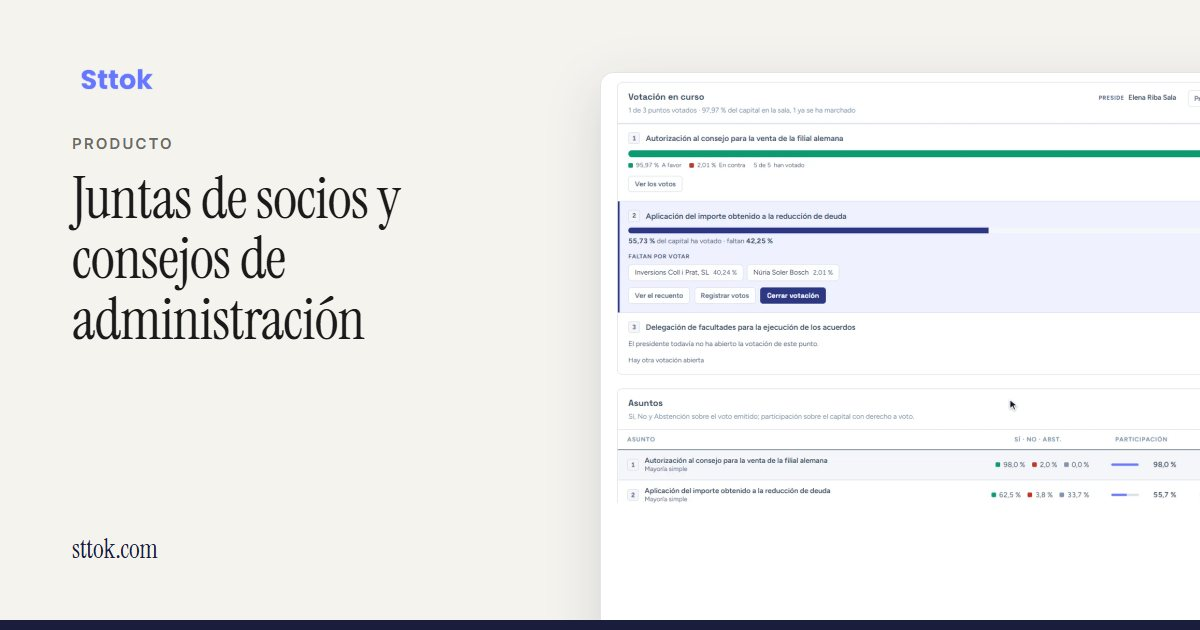
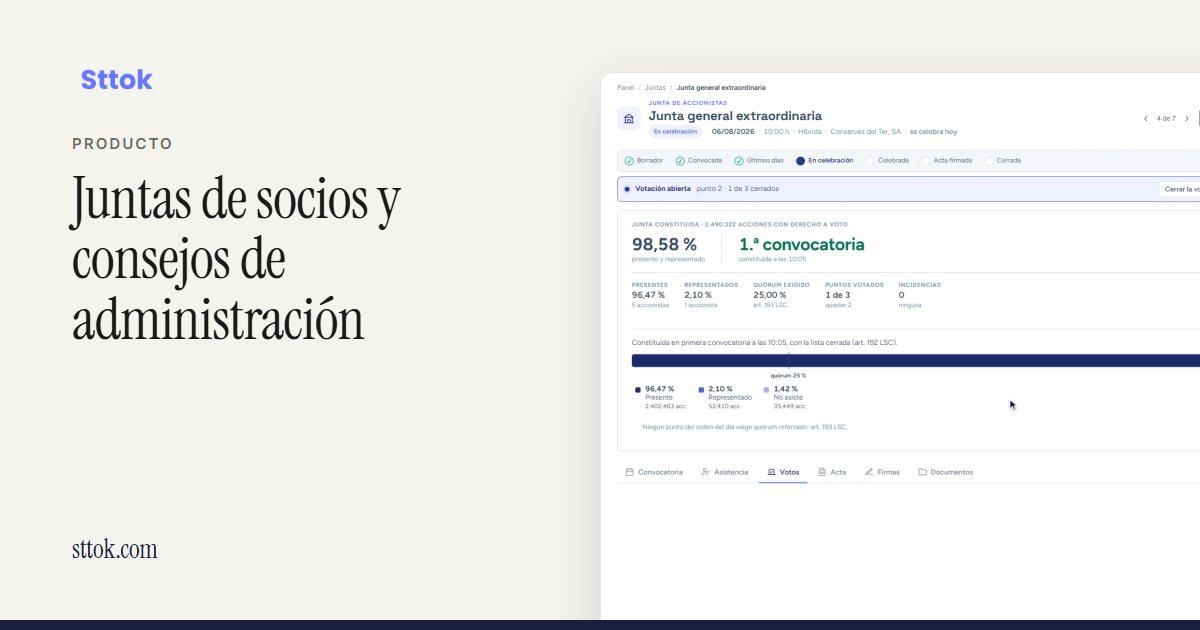
Guías nuevas: su captura y su imagen al compartir
Las cinco guías publicadas en paralelo al PR #109 (junta ordinaria, protocolo
familiar, delegación de voto, sociedad unipersonal y vencimiento de cargos)
no llevaban imagen. Llevan su pantalla, y el índice de Open Graph cubre ya
las fichas nuevas de #110 y #112 (100 imágenes). Quedó fuera del #109
porque se fusionó un commit antes.

diff --git a/lib/og-imagenes.ts b/lib/og-imagenes.ts
@@ -24,9 +24,12 @@ export const OG_IMAGENES: Record<string, string> = {
   "/funcionalidades/asistencia-y-quorum": "/og/funcionalidades-asistencia-y-quorum.jpg",
   "/funcionalidades/auditores": "/og/funcionalidades-auditores.jpg",
   "/funcionalidades/autocartera": "/og/funcionalidades-autocartera.jpg",
+  "/funcionalidades/borradores-de-documentos": "/og/funcionalidades-borradores-de-documentos.jpg",
   "/funcionalidades/calendario-del-consejo": "/og/funcionalidades-calendario-del-consejo.jpg",
+  "/funcionalidades/calendario-societario": "/og/funcionalidades-calendario-societario.jpg",
   "/funcionalidades/cargas-sobre-participaciones": "/og/funcionalidades-cargas-sobre-participaciones.jpg",
   "/funcionalidades/cargos-con-vigencia": "/og/funcionalidades-cargos-con-vigencia.jpg",
+  "/funcionalidades/cascada-de-liquidacion": "/og/funcionalidades-cascada-de-liquidacion.jpg",
   "/funcionalidades/categorias-de-socios": "/og/funcionalidades-categorias-de-socios.jpg",
   "/funcionalidades/certificacion-de-acuerdos": "/og/funcionalidades-certificacion-de-acuerdos.jpg",
   "/funcionalidades/certificados-de-titularidad-y-valor": "/og/funcionalidades-certificados-de-titularidad-y-valor.jpg",
@@ -40,21 +43,25 @@ export const OG_IMAGENES: Record<string, string> = {
   "/funcionalidades/convocatoria-de-la-junta": "/og/funcionalidades-convocatoria-de-la-junta.jpg",
   "/funcionalidades/cuentas-depositadas": "/og/funcionalidades-cuentas-depositadas.jpg",
   "/funcionalidades/diagrama-del-grupo": "/og/funcionalidades-diagrama-del-grupo.jpg",
+  "/funcionalidades/documentacion-societaria": "/og/funcionalidades-documentacion-societaria.jpg",
   "/funcionalidades/eleccion-de-consejeros": "/og/funcionalidades-eleccion-de-consejeros.jpg",
   "/funcionalidades/equity-story": "/og/funcionalidades-equity-story.jpg",
   "/funcionalidades/ficha-del-socio": "/og/funcionalidades-ficha-del-socio.jpg",
   "/funcionalidades/firma-electronica": "/og/funcionalidades-firma-electronica.jpg",
   "/funcionalidades/juntas-presenciales-telematicas-e-hibridas": "/og/funcionalidades-juntas-presenciales-telematicas-e-hibridas.jpg",
   "/funcionalidades/lectura-de-escrituras-con-ia": "/og/funcionalidades-lectura-de-escrituras-con-ia.jpg",
+  "/funcionalidades/legalizacion-del-libro-registro": "/og/funcionalidades-legalizacion-del-libro-registro.jpg",
   "/funcionalidades/libro-de-actas": "/og/funcionalidades-libro-de-actas.jpg",
   "/funcionalidades/libro-registro-oficial": "/og/funcionalidades-libro-registro-oficial.jpg",
   "/funcionalidades/liquidez-planes-de-incentivos": "/og/funcionalidades-liquidez-planes-de-incentivos.jpg",
   "/funcionalidades/mayorias-y-derecho-de-separacion": "/og/funcionalidades-mayorias-y-derecho-de-separacion.jpg",
   "/funcionalidades/numeracion-por-rangos": "/og/funcionalidades-numeracion-por-rangos.jpg",
+  "/funcionalidades/ofertas-de-compra-y-venta-de-acciones": "/og/funcionalidades-ofertas-de-compra-y-venta-de-acciones.jpg",
   "/funcionalidades/orden-del-dia-del-consejo": "/og/funcionalidades-orden-del-dia-del-consejo.jpg",
   "/funcionalidades/organo-de-administracion": "/og/funcionalidades-organo-de-administracion.jpg",
   "/funcionalidades/participadas": "/og/funcionalidades-participadas.jpg",
   "/funcionalidades/permisos-por-sociedad": "/og/funcionalidades-permisos-por-sociedad.jpg",
+  "/funcionalidades/phantom-shares-y-stock-options": "/og/funcionalidades-phantom-shares-y-stock-options.jpg",
   "/funcionalidades/portada-multisociedad": "/og/funcionalidades-portada-multisociedad.jpg",
   "/funcionalidades/portal-del-accionista": "/og/funcionalidades-portal-del-accionista.jpg",
   "/funcionalidades/portal-del-beneficiario": "/og/funcionalidades-portal-del-beneficiario.jpg",
@@ -64,6 +71,7 @@ export const OG_IMAGENES: Record<string, string> = {
   "/funcionalidades/reparto-de-dividendos": "/og/funcionalidades-reparto-de-dividendos.jpg",
   "/funcionalidades/representantes": "/og/funcionalidades-representantes.jpg",
   "/funcionalidades/sociedades-socias-de-otras": "/og/funcionalidades-sociedades-socias-de-otras.jpg",
+  "/funcionalidades/sttok-ai": "/og/funcionalidades-sttok-ai.jpg",
   "/funcionalidades/titular-real": "/og/funcionalidades-titular-real.jpg",
   "/funcionalidades/trabajos-en-varias-sociedades": "/og/funcionalidades-trabajos-en-varias-sociedades.jpg",
   "/funcionalidades/transmisiones": "/og/funcionalidades-transmisiones.jpg",
@@ -75,13 +83,18 @@ export const OG_IMAGENES: Record<string, string> = {
   "/guias/fiscalidad-phantom-shares-stock-options": "/og/guias-fiscalidad-phantom-shares-stock-options.jpg",
   "/guias/herencia-de-participaciones": "/og/guias-herencia-de-participaciones.jpg",
   "/guias/junta-general-telematica": "/og/guias-junta-general-telematica.jpg",
+  "/guias/junta-ordinaria-y-cuentas-anuales": "/og/guias-junta-ordinaria-y-cuentas-anuales.jpg",
   "/guias/junta-universal": "/og/guias-junta-universal.jpg",
   "/guias/libro-de-actas": "/og/guias-libro-de-actas.jpg",
   "/guias/libro-registro-socios-legalizacion": "/og/guias-libro-registro-socios-legalizacion.jpg",
   "/guias/plantillas-societarias": "/og/guias-plantillas-societarias.jpg",
+  "/guias/protocolo-familiar-pacto-de-socios-estatutos": "/og/guias-protocolo-familiar-pacto-de-socios-estatutos.jpg",
   "/guias/reconstruir-libro-de-socios": "/og/guias-reconstruir-libro-de-socios.jpg",
+  "/guias/representacion-y-delegacion-de-voto-junta": "/og/guias-representacion-y-delegacion-de-voto-junta.jpg",
+  "/guias/sociedad-unipersonal-socio-unico": "/og/guias-sociedad-unipersonal-socio-unico.jpg",
   "/guias/titular-real-grupos-sociedades": "/og/guias-titular-real-grupos-sociedades.jpg",
   "/guias/valoracion-anual-acciones-estatutos": "/og/guias-valoracion-anual-acciones-estatutos.jpg",
+  "/guias/vencimiento-cargos-administradores": "/og/guias-vencimiento-cargos-administradores.jpg",
   "/soluciones/accionariado-amplio": "/og/soluciones-accionariado-amplio.jpg",
   "/soluciones/direccion-juridica-in-house": "/og/soluciones-direccion-juridica-in-house.jpg",
   "/soluciones/empresa-familiar": "/og/soluciones-empresa-familiar.jpg",
